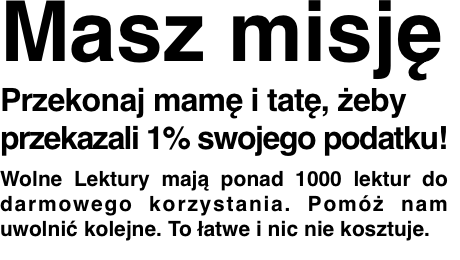
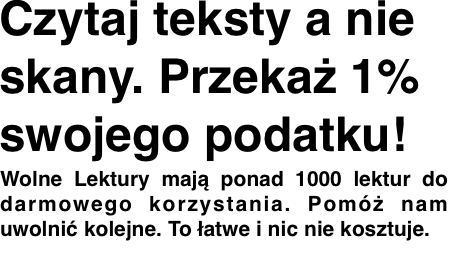
Poprawienie strony "1% podatku" specjalnie na potrzeby wystąpienia w Wiadomościach Polsatu.

Changed region(s): [[0.0, 0.0, 0.9739, 0.6462]]

diff --git a/wolnelektury/templates/1percent.html b/wolnelektury/templates/1percent.html
@@ -41,6 +41,8 @@
 <pre>Fundacja Nowoczesna Polska
 KRS 0000070056</pre>
                 <img src="/static/img/pit37.png" />
+                <a href="https://www.pitroczny.pl/pit?krs=0000070056"><img src="http://www.pitroczny.pl/pl/resources/images/1oppmini.png" alt="1% dla OPP" style="float: left; margin: 8px 8px 0 0" ></a>
+                <p>Skorzystaj z programu ułatwiającego przygotowanie deklaracji podatkowej on-line.</p>
             </div>
         </div>
         
